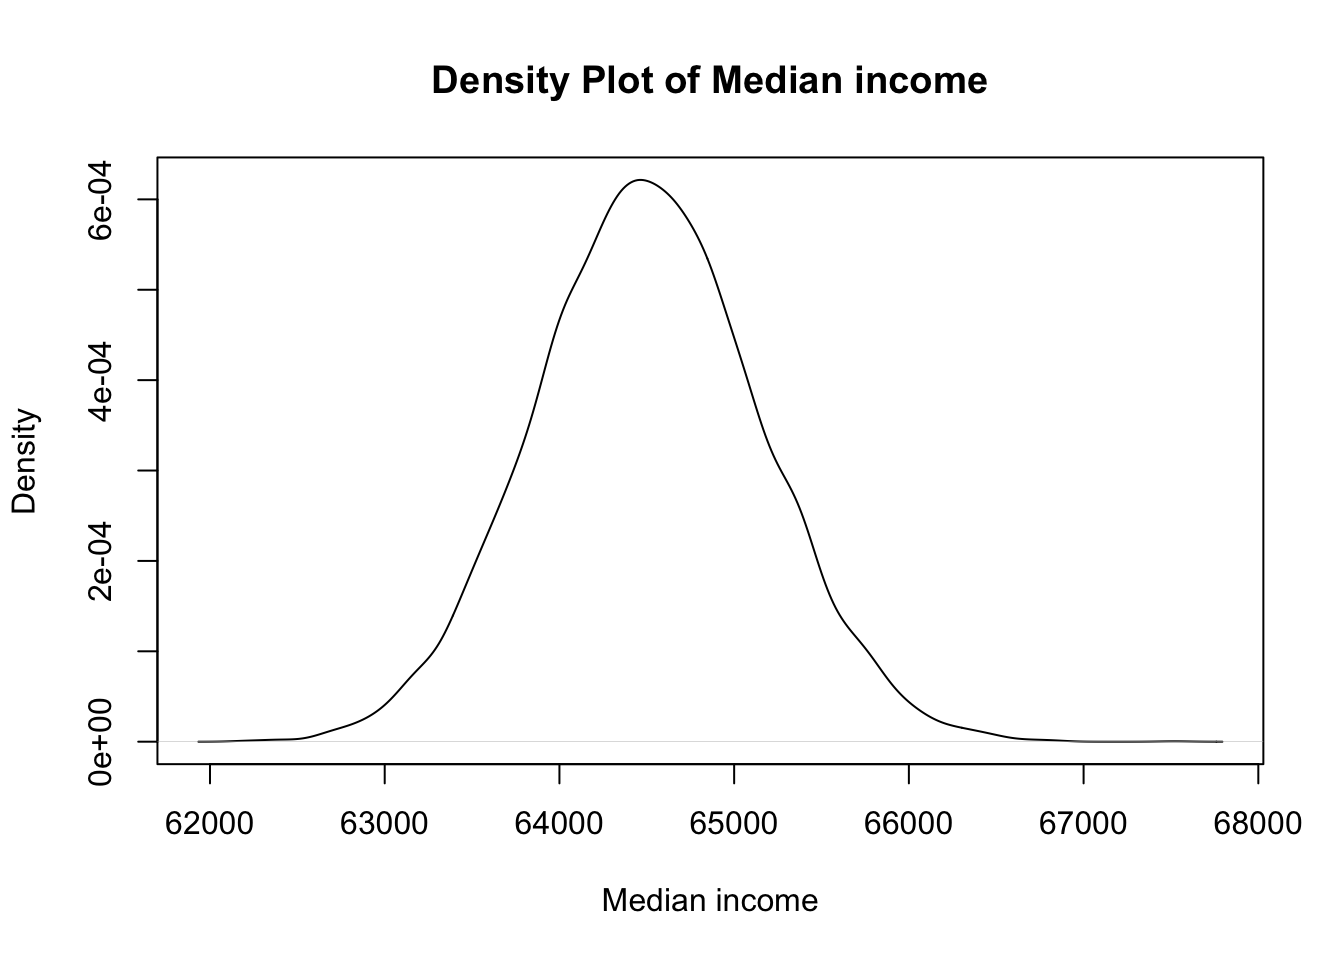
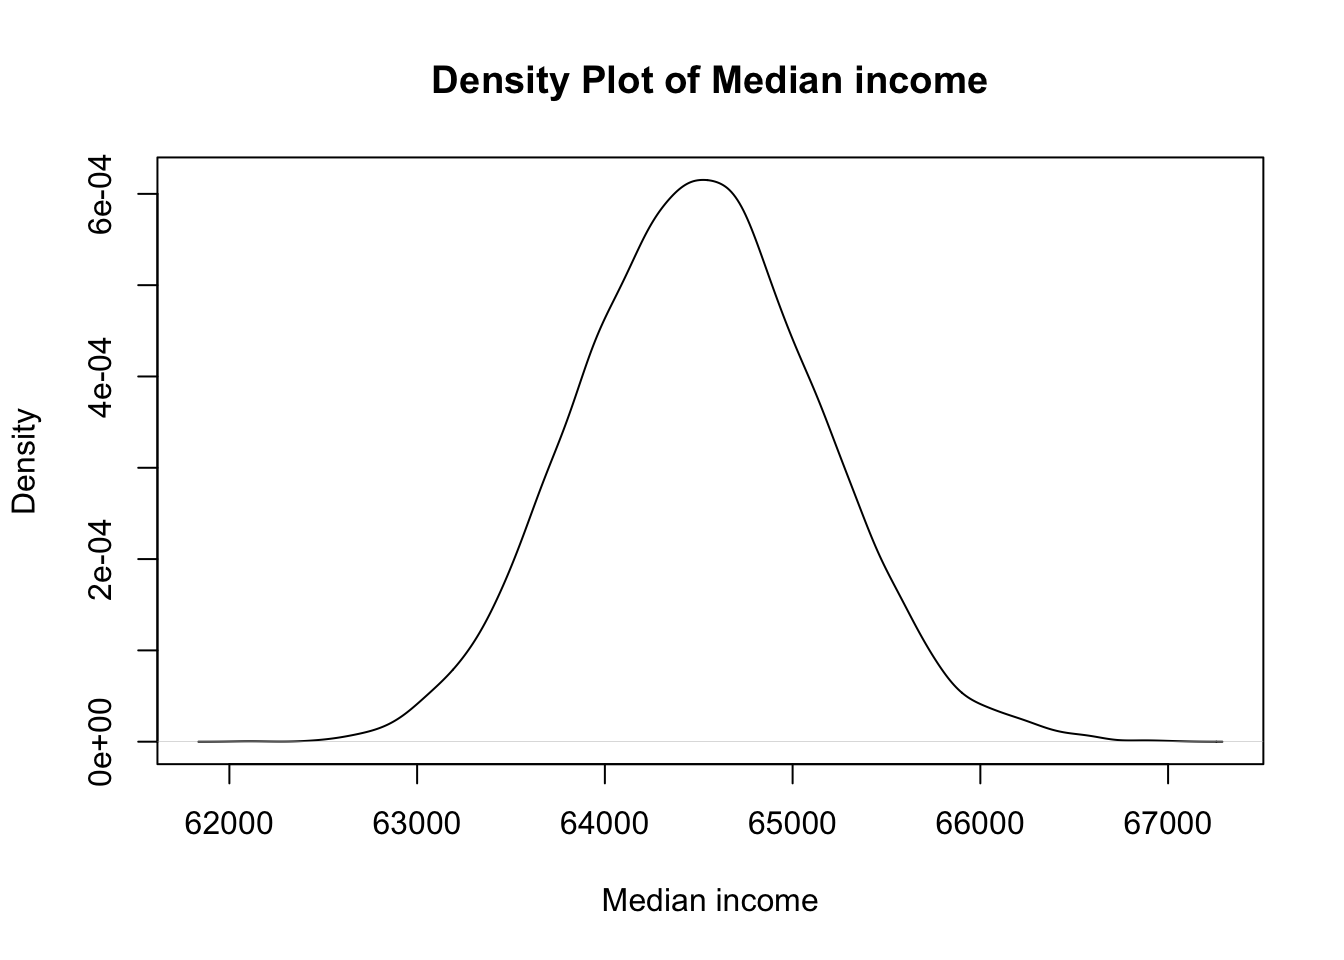
j 4924 1

diff --git a/docs/Catallactics/Personal/pricing.html b/docs/Catallactics/Personal/pricing.html
@@ -6,7 +6,7 @@
 
 <meta name="viewport" content="width=device-width, initial-scale=1.0, user-scalable=yes">
 
-<meta name="dcterms.date" content="2024-09-03">
+<meta name="dcterms.date" content="2024-09-04">
 
 <title>knotes - Hedge pricing</title>
 <style>
@@ -895,7 +895,7 @@ cookieconsent.run({
     <div>
     <div class="quarto-title-meta-heading">Published</div>
     <div class="quarto-title-meta-contents">
-      <p class="date">September 3, 2024</p>
+      <p class="date">September 4, 2024</p>
     </div>
   </div>
   
@@ -941,7 +941,7 @@ cookieconsent.run({
 <span id="cb2-3"><a href="#cb2-3" aria-hidden="true" tabindex="-1"></a>closing_price</span></code><button title="Copy to Clipboard" class="code-copy-button"><i class="bi"></i></button></pre></div>
 </details>
 <div class="cell-output cell-output-stdout">
-<pre><code>[1] 25278.7</code></pre>
+<pre><code>[1] 25279.85</code></pre>
 </div>
 </div>
 </section>
@@ -1001,7 +1001,7 @@ attr(,"class")
 <div class="sourceCode cell-code" id="cb8"><pre class="sourceCode r code-with-copy"><code class="sourceCode r"><span id="cb8-1"><a href="#cb8-1" aria-hidden="true" tabindex="-1"></a><span class="fu">print</span>(closing_price)</span></code><button title="Copy to Clipboard" class="code-copy-button"><i class="bi"></i></button></pre></div>
 </details>
 <div class="cell-output cell-output-stdout">
-<pre><code>[1] 25278.7</code></pre>
+<pre><code>[1] 25279.85</code></pre>
 </div>
 <details class="code-fold">
 <summary>Code</summary>
@@ -1015,7 +1015,7 @@ attr(,"class")
 <div class="sourceCode cell-code" id="cb12"><pre class="sourceCode r code-with-copy"><code class="sourceCode r"><span id="cb12-1"><a href="#cb12-1" aria-hidden="true" tabindex="-1"></a>strike</span></code><button title="Copy to Clipboard" class="code-copy-button"><i class="bi"></i></button></pre></div>
 </details>
 <div class="cell-output cell-output-stdout">
-<pre><code>[1] 21486.89</code></pre>
+<pre><code>[1] 21487.87</code></pre>
 </div>
 <details class="code-fold">
 <summary>Code</summary>
@@ -1024,7 +1024,7 @@ attr(,"class")
 <div class="cell-output cell-output-stdout">
 <pre><code>Concise summary of valuation for EuropeanOption 
      value      delta      gamma       vega      theta        rho     divRho 
-  118.4002    -0.0693     0.0000  2554.9812  -290.1199 -1075.9367  1007.8566 </code></pre>
+  118.4056    -0.0693     0.0000  2555.0975  -290.1331 -1075.9857  1007.9025 </code></pre>
 </div>
 </div>
 <p>Price of a <strong>4 month 5 delta option</strong> is 118 for the given strike price</p>

diff --git a/docs/posts/montecarlo.html b/docs/posts/montecarlo.html
@@ -6,7 +6,7 @@
 
 <meta name="viewport" content="width=device-width, initial-scale=1.0, user-scalable=yes">
 
-<meta name="dcterms.date" content="2024-09-03">
+<meta name="dcterms.date" content="2024-09-04">
 
 <title>knotes - Income distribution</title>
 <style>
@@ -933,7 +933,7 @@ window.Quarto = {
     <div>
     <div class="quarto-title-meta-heading">Published</div>
     <div class="quarto-title-meta-contents">
-      <p class="date">September 3, 2024</p>
+      <p class="date">September 4, 2024</p>
     </div>
   </div>
   
@@ -1071,7 +1071,7 @@ Income distribution is not normal
 </details>
 <div class="cell-output cell-output-stdout">
 <pre><code>     Min.   1st Qu.    Median      Mean   3rd Qu.      Max. 
-   215249    296385    343176    540022    437222 117217439 </code></pre>
+   207148    295231    341943    600628    434663 396552986 </code></pre>
 </div>
 <details open="" class="code-fold">
 <summary>Code</summary>
@@ -1079,7 +1079,7 @@ Income distribution is not normal
 </details>
 <div class="cell-output cell-output-stdout">
 <pre><code>   Min. 1st Qu.  Median    Mean 3rd Qu.    Max. 
-  62209   64071   64500   64506   64932   67520 </code></pre>
+  62110   64062   64497   64504   64930   67015 </code></pre>
 </div>
 <details open="" class="code-fold">
 <summary>Code</summary>
@@ -1087,7 +1087,7 @@ Income distribution is not normal
 </details>
 <div class="cell-output cell-output-stdout">
 <pre><code>     Min.   1st Qu.    Median      Mean   3rd Qu.      Max. 
-1.087e+06 3.345e+06 5.598e+06 2.459e+07 1.171e+07 1.168e+10 </code></pre>
+9.441e+05 3.323e+06 5.576e+06 3.066e+07 1.169e+07 3.962e+10 </code></pre>
 </div>
 </div>
 </section>

diff --git a/docs/Catallactics/Personal/jenson.html b/docs/Catallactics/Personal/jenson.html
@@ -6,7 +6,7 @@
 
 <meta name="viewport" content="width=device-width, initial-scale=1.0, user-scalable=yes">
 
-<meta name="dcterms.date" content="2024-09-03">
+<meta name="dcterms.date" content="2024-09-02">
 
 <title>knotes - Jensen’s inequality and risk reward</title>
 <style>
@@ -890,7 +890,7 @@ window.Quarto = {
     <div>
     <div class="quarto-title-meta-heading">Published</div>
     <div class="quarto-title-meta-contents">
-      <p class="date">September 3, 2024</p>
+      <p class="date">September 2, 2024</p>
     </div>
   </div>
   
@@ -961,6 +961,7 @@ Caution
 </div>
 <p>Then, what should be our strategy?</p>
 <p>For multiple period time horizon, it is impossible to predict the future return. What we can do is try to domesticate uncertainty by limiting the downside risk to minimum fixed value while keeping all the upside risks untouched.</p>
+<p>In short, what we should try for is <strong>diversification in time</strong> using asset classes that can capture unlimited upside risk and at the same time limit any downside risk to fixed quantity, <strong>not diversification of assets</strong>.</p>
 </section>
 </section>
 <section id="best-of-both-worlds" class="level2">

diff --git a/docs/posts.html b/docs/posts.html
@@ -1019,9 +1019,9 @@ Categories
 <span class="listing-categories">technology, ev</span>
 </td>
 </tr>
-<tr data-index="1" data-categories="Monte Carlo simulation,economics" data-listing-date-sort="1725301800000" data-listing-file-modified-sort="1716203287606" data-listing-date-modified-sort="NaN" data-listing-reading-time-sort="8" data-listing-word-count-sort="1412" data-listing-title-sort="Income distribution" data-listing-filename-sort="montecarlo.qmd">
+<tr data-index="1" data-categories="Monte Carlo simulation,economics" data-listing-date-sort="1725388200000" data-listing-file-modified-sort="1716203287606" data-listing-date-modified-sort="NaN" data-listing-reading-time-sort="8" data-listing-word-count-sort="1412" data-listing-title-sort="Income distribution" data-listing-filename-sort="montecarlo.qmd">
 <td>
-<span class="listing-date">Sep 3, 2024</span>
+<span class="listing-date">Sep 4, 2024</span>
 </td>
 <td>
 <a href="./posts/montecarlo.html" class="title listing-title">Income distribution</a>

diff --git a/docs/Biomedical/Research Methodology/wrangling.html b/docs/Biomedical/Research Methodology/wrangling.html
@@ -2368,11 +2368,11 @@ Record
 <pre><code>     age   sex  class
    &lt;int&gt; &lt;int&gt; &lt;fctr&gt;
 1:     1     0  child
-2:     2     1  child
-3:     3     1  child
+2:     2     0  child
+3:     3     0  child
 4:     4     1  child
 5:     5     1  child
-6:     6     0  child</code></pre>
+6:     6     1  child</code></pre>
 </div>
 </div>
 <section id="making-data-wide" class="level3">
@@ -2391,11 +2391,11 @@ Record
      age      0      1
    &lt;int&gt; &lt;fctr&gt; &lt;fctr&gt;
 1:     1  child   &lt;NA&gt;
-2:     2   &lt;NA&gt;  child
-3:     3   &lt;NA&gt;  child
+2:     2  child   &lt;NA&gt;
+3:     3  child   &lt;NA&gt;
 4:     4   &lt;NA&gt;  child
 5:     5   &lt;NA&gt;  child
-6:     6  child   &lt;NA&gt;</code></pre>
+6:     6   &lt;NA&gt;  child</code></pre>
 </div>
 </div>
 

diff --git a/docs/Revision notes/Diagrams/diagrams.html b/docs/Revision notes/Diagrams/diagrams.html
@@ -1351,7 +1351,7 @@ window.document.addEventListener("DOMContentLoaded", function (event) {
 </div>
   </div>
 </footer>
-<script>var lightboxQuarto = GLightbox({"loop":false,"descPosition":"bottom","selector":".lightbox","openEffect":"zoom","closeEffect":"zoom"});
+<script>var lightboxQuarto = GLightbox({"loop":false,"selector":".lightbox","descPosition":"bottom","openEffect":"zoom","closeEffect":"zoom"});
 window.onload = () => {
   lightboxQuarto.on('slide_before_load', (data) => {
     const { slideIndex, slideNode, slideConfig, player, trigger } = data;

diff --git a/docs/Catallactics/Personal/IMA SSS.html b/docs/Catallactics/Personal/IMA SSS.html
@@ -6,7 +6,7 @@
 
 <meta name="viewport" content="width=device-width, initial-scale=1.0, user-scalable=yes">
 
-<meta name="dcterms.date" content="2024-09-03">
+<meta name="dcterms.date" content="2024-09-04">
 
 <title>knotes - IMA SSS</title>
 <style>
@@ -865,7 +865,7 @@ cookieconsent.run({
     <div>
     <div class="quarto-title-meta-heading">Published</div>
     <div class="quarto-title-meta-contents">
-      <p class="date">September 3, 2024</p>
+      <p class="date">September 4, 2024</p>
     </div>
   </div>
   
